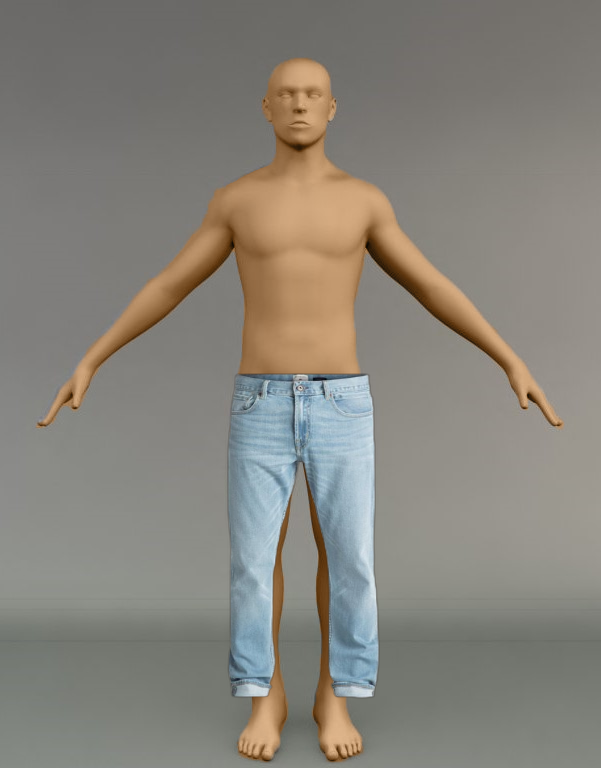
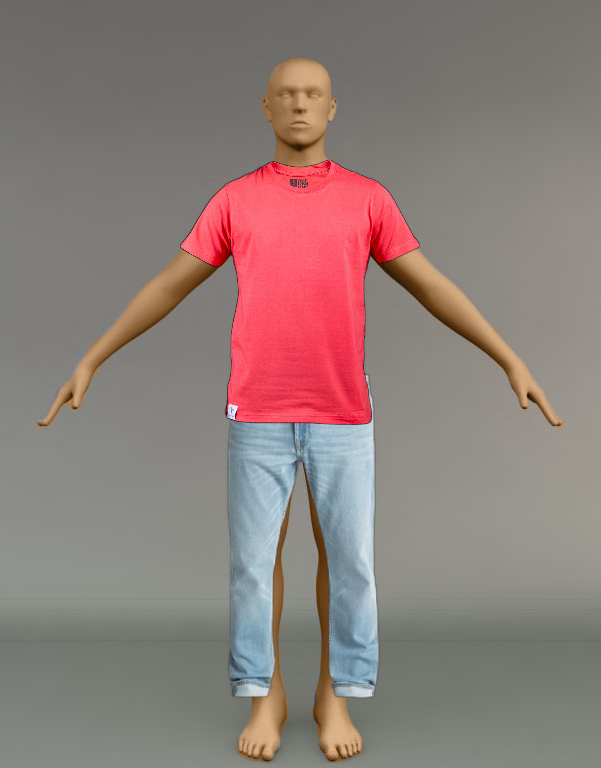
update8

Changed region(s): [[0.2995, 0.1875, 0.7188, 0.5625]]

diff --git a/main.py b/main.py
@@ -1,40 +1,40 @@
 import os
 
-
-from flask import Flask, request, jsonify
+from flask import Flask, request, jsonify, send_file
 import werkzeug
-from size_recommendation import size_recommendation
+import cv2
+import size_recommendation as sr
+import virtual_fitting as vf
 
 app = Flask(__name__)
 
-@app.route('/upload', methods=["POST"])
-def upload():
+
+@app.route('/size_recommend', methods=["POST"])
+def size_recommend():
     if request.method == "POST":
         imageFile = request.files['image']
         fileName = werkzeug.utils.secure_filename(imageFile.filename)
         category = fileName.split('_')[0]
-        # print('category:', category)
         imageFile.save(fileName)
 
         imageFile2 = request.files['imageSide']
         fileName2 = werkzeug.utils.secure_filename(imageFile2.filename)
         height = float(fileName2.split('_')[0])
-        # print('height:', height)
         imageFile2.save(fileName2)
 
         # Call function sizes
-        shirts, t_shirts, trousers, shorts, jackets = size_recommendation(fileName, fileName2, height, category)
+        shirts, t_shirts, trousers, shorts, jackets = sr.size_recommendation(fileName, fileName2, height, category)
 
         print(shirts, t_shirts, trousers, shorts, jackets)
 
-        #remove images after extracting sizes
-        if os.path.isfile(f"F:\python\pythonProject\{fileName}"):
+        # remove images after extracting sizes
+        if os.path.isfile(f"F:\python\FinalProject\{fileName}"):
             os.remove(fileName)
             print("Front image deleted successfully")
         else:
             print("Error: file not found!")
 
-        if os.path.isfile(f"F:\python\pythonProject\{fileName2}"):
+        if os.path.isfile(f"F:\python\FinalProject\{fileName2}"):
             os.remove(fileName2)
             print("Side image deleted successfully")
         else:
@@ -43,6 +43,40 @@ def upload():
         return jsonify({
             "size": [shirts, t_shirts, trousers, shorts, jackets]
         })
+
+
+@app.route('/virtual', method=["POST"])
+def virtual():
+    if request.method == "POST":
+        first_cloth_image = request.files['first_image']
+        clothName_1 = werkzeug.utils.secure_filename(first_cloth_image.filename)
+        first_cloth_image.save(clothName_1)
+
+        category_1 = request.args.get('category1')
+
+        second_cloth_image = request.files['second_image']
+        clothName_2 = werkzeug.utils.secure_filename(second_cloth_image.filename)
+        second_cloth_image.save(clothName_2)
+
+        category_2 = request.args.get('category2')
+
+        result_img = vf.full_outfit(vf.model, clothName_1, category_1, clothName_2, category_2)
+        cv2.imwrite("result.png", result_img)
+
+        # remove images after processing
+        if os.path.isfile(f"F:\python\FinalProject\{clothName_1}"):
+            os.remove(clothName_1)
+            print("First image deleted successfully")
+        else:
+            print("Error: file not found!")
+
+        if os.path.isfile(f"F:\python\FinalProject\{clothName_2}"):
+            os.remove(clothName_2)
+            print("Second image deleted successfully")
+        else:
+            print("Error: file not found!")
+
+        return send_file("result.png", mimetype='image/png')
 
 
 if __name__ == "__main__":

diff --git a/virtual_fitting.py b/virtual_fitting.py
@@ -5,8 +5,11 @@ import io
 from PIL import Image, ImageFile
 
 model_image = "model.png"
-cloth_image = "jeans_3.jpg"
-category = "pants"
+model = cv2.imread(model_image)
+cloth_1 = "jeans_3.jpg"
+category_1 = "pants"
+cloth_2 = "t-shirt_1.png"
+category_2 = "t-shirt"
 
 
 def remove_bg(cloth_img):
@@ -114,8 +117,9 @@ def merge_images(model, c_no_bg, start_x, end_x, start_y, end_y):
 
     return model
 
-def virtual_fitting(model_image, cloth_image, category):
-    model = cv2.imread(model_image)
+
+def virtual_fitting(model, cloth_image, category):
+    #model = cv2.imread(model_image)
     c_no_bg, c_mask = remove_bg(cloth_image)
     upper_length, t_shirt_width, t_shirt_x, shirt_width, shirt_x, lower_length, pants_width, pants_x, hip_height, waist_height, shorts_length = get_model_parts()
     if category == "t-shirt":
@@ -151,14 +155,16 @@ def virtual_fitting(model_image, cloth_image, category):
 
     return result
 
+
 def full_outfit(model_img, first_cloth, first_category, second_cloth, second_category):
-    result_1 = virtual_fitting(model_img, second_cloth, second_category)
-    final_result = virtual_fitting(result_1, first_cloth, first_category)
+    result_1 = virtual_fitting(model_img, first_cloth, first_category)
+    final_result = virtual_fitting(result_1, second_cloth, second_category)
 
     return final_result
 
 
-result = virtual_fitting(model_image=model_image, cloth_image=cloth_image, category=category)
+result = full_outfit(model_img=model, first_cloth=cloth_1, first_category=category_1, second_cloth=cloth_2,
+                     second_category=category_2)
 
 cv2.imshow("out", result)
 cv2.imwrite("out.png", result)

diff --git a/size_recommendation.py b/size_recommendation.py
@@ -1,3 +1,4 @@
+import cv2
 from rembg.bg import remove
 import numpy as np
 import io
@@ -18,6 +19,7 @@ def remove_bg(input_image):
         img = img.transpose(Image.ROTATE_90)
 
     converted = np.array(img)
+    converted = cv2.resize(converted, (960, 1280))
     (H, W, D) = converted.shape
 
     # convert image to black and white
